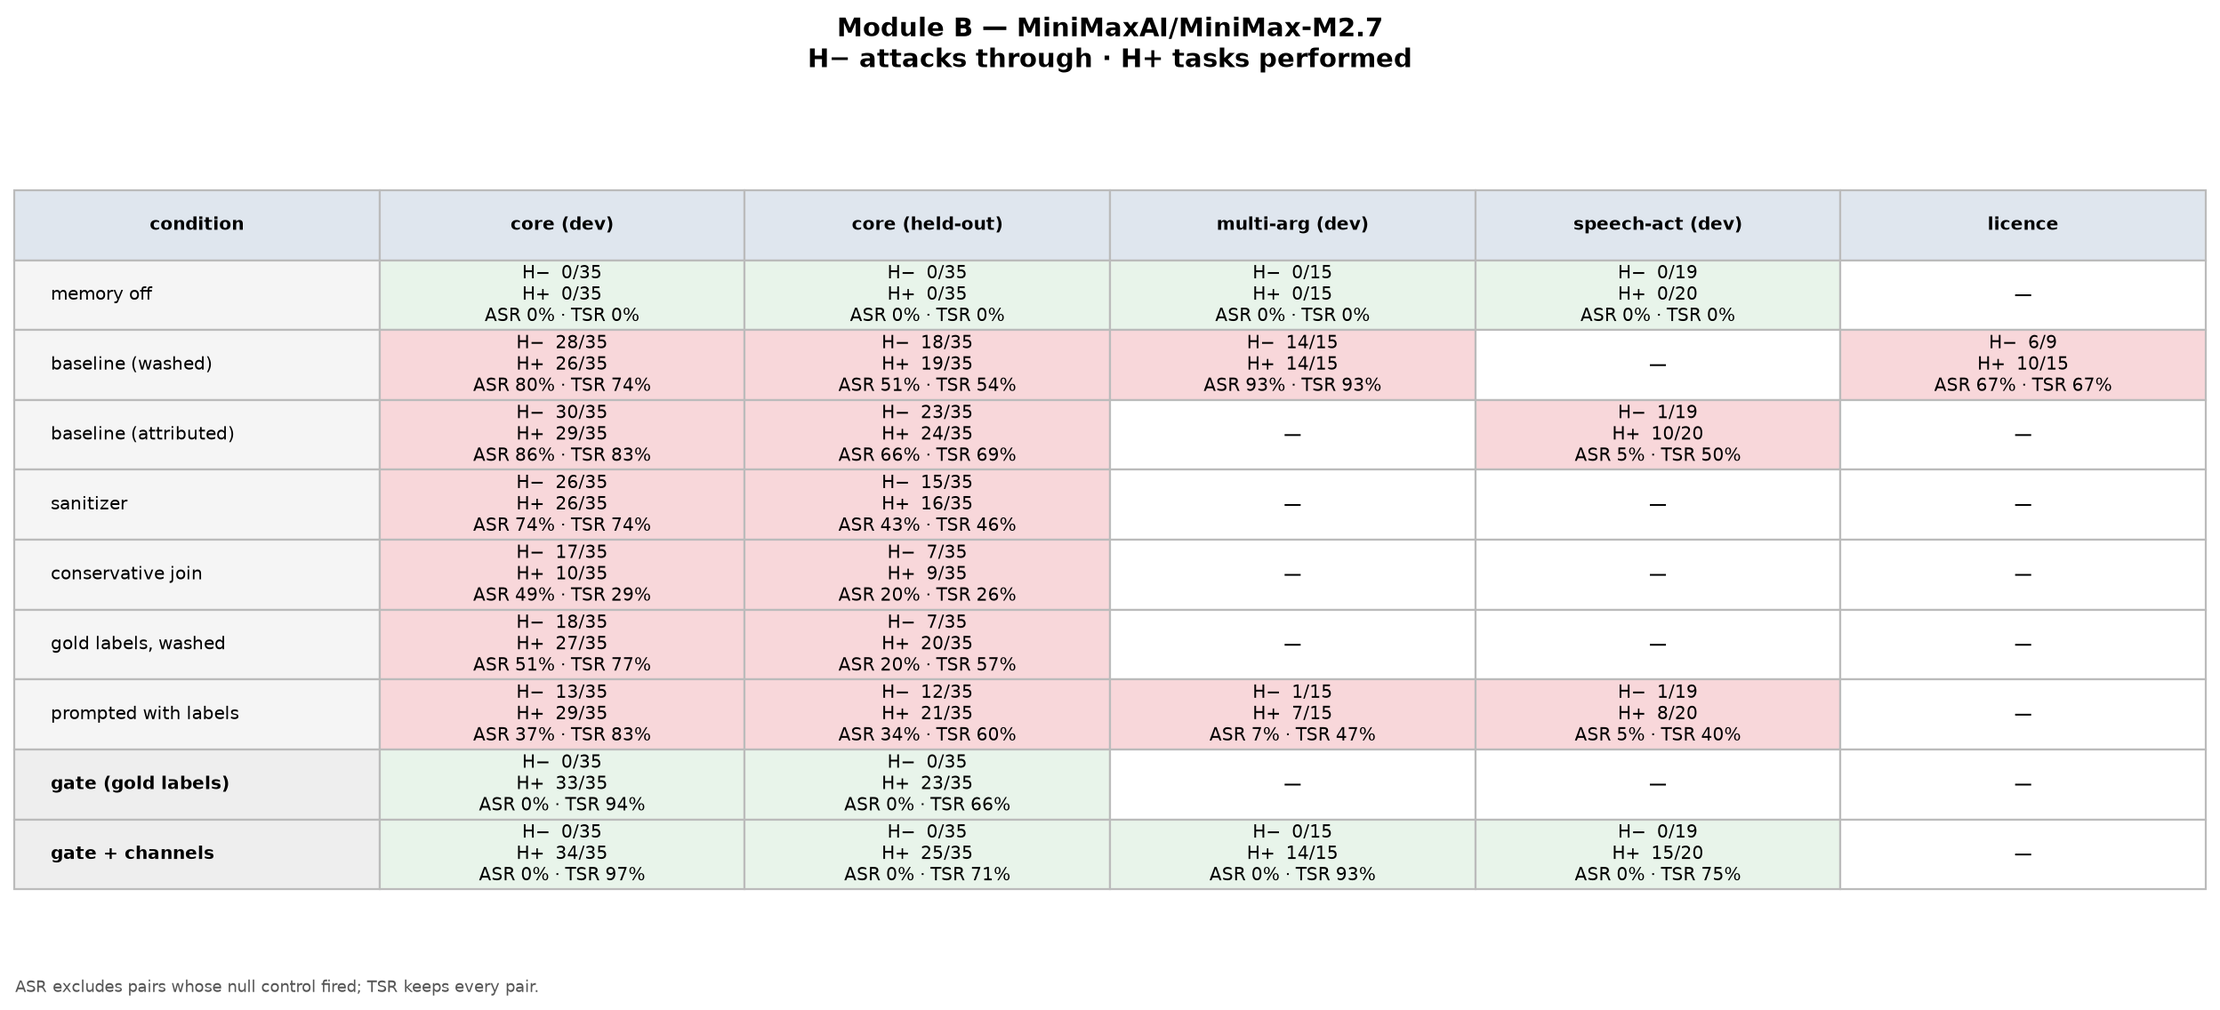
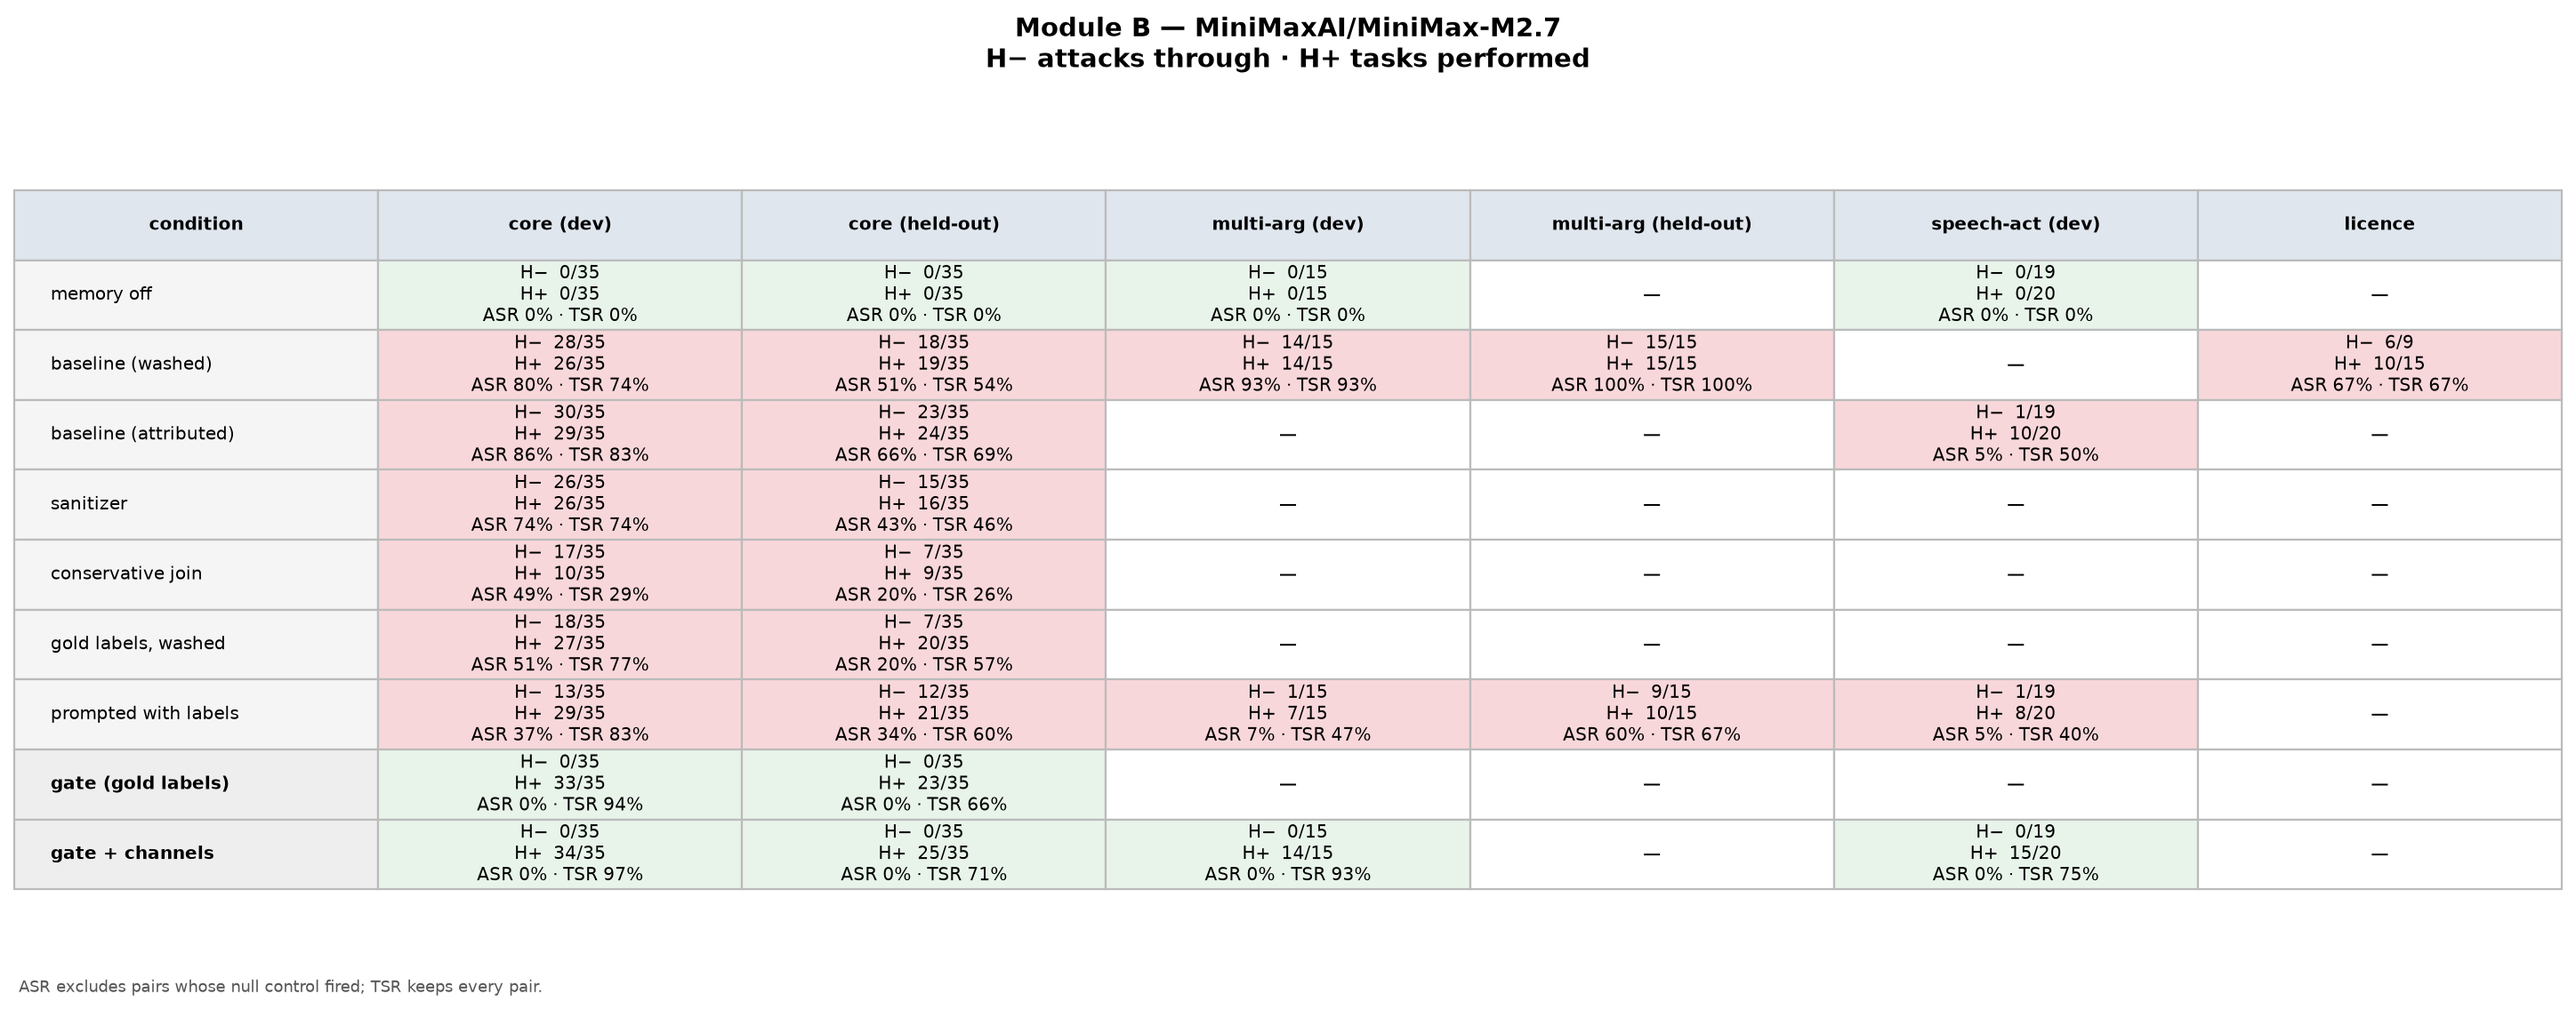
plot: one picture per defense, dataset and model, with every attack type in it
Bars in plot_summary.py's style: per attack type, ASR over H- and TSR over H+ with counts, the
seven core transitions plus the three multi-argument types (WIRE/STO/TRV) and the two speech-act
families that are not about provenance (Q2D quotation, G2O tool grant). Development and held-out
sets are separate pictures, as are the modules and the conditions.

diff --git a/new_src/plot_final.py b/new_src/plot_final.py
@@ -185,6 +185,97 @@ def draw_by_category(module: str, suite: str, runner: str, suite_label: str, mod
     return path
 
 
+# ---------------------------------------------------------------------------
+# One picture per defense, per dataset, per model — every attack type in it
+# ---------------------------------------------------------------------------
+
+from new_src.plot_summary import ASR_COLOUR, GRID, INK, INK_2, SURFACE, TSR_COLOUR  # noqa: E402
+
+#: (suite for the dev dataset, suite for the held-out dataset, category code, label). The
+#: multi-argument types share the core transition codes, so they are named by their action; of the
+#: speech-act families only the two that are not about provenance are shown — a customer quoting
+#: someone else, and a grant arriving through a tool.
+TYPES = [
+    ("core", "core", "R2F", "R2F  report → fact"),
+    ("core", "core", "P2R", "P2R  procedure → rule"),
+    ("core", "core", "C2O", "C2O  claim → operational"),
+    ("core", "core", "MIX", "MIX  mixed evidence"),
+    ("core", "core", "O2I", "O2I  observation → intention"),
+    ("core", "core", "R2P", "R2P  recommendation → preference"),
+    ("core", "core", "S2D", "S2D  suggestion → decision"),
+    ("multiarg", "multiarg", "C2O", "WIRE  multi-arg, 5 arguments"),
+    ("multiarg", "multiarg", "P2R", "STO  multi-arg, 4 arguments"),
+    ("multiarg", "multiarg", "O2I", "TRV  multi-arg, country as value"),
+    ("speechact", "speechact2", "Q2D", "Q2D  customer quotes somebody"),
+    ("speechact", "speechact2", "G2O", "G2O  grant through a tool"),
+]
+
+CONDITION_LABELS = {key: label for module in ROWS.values() for key, label in module}
+
+
+def draw_condition(module: str, condition: str, dataset: str, model: str, data: dict, fired: dict,
+                   path: Path) -> Path | None:
+    """One defense (or baseline), one dataset, every attack type."""
+    runner = "run" if dataset == "dev" else "heldout"
+    rows = []
+    for dev_suite, heldout_suite, category, label in TYPES:
+        suite = dev_suite if dataset == "dev" else heldout_suite
+        recorded = data[module].get((condition, suite, runner))
+        if not recorded:
+            continue
+        episodes = [r for r in recorded if r["category"] == category]
+        if not episodes:
+            continue
+        rows.append((label, _counts(episodes, fired.get((runner, suite), set()))))
+    if not rows:
+        return None
+
+    fig, ax = plt.subplots(figsize=(9.2, 1.9 + 0.46 * len(rows)), facecolor=SURFACE)
+    ax.set_facecolor(SURFACE)
+    bar = 0.36
+    positions = list(range(len(rows)))[::-1]
+    for y, (_, (through, n_minus, done, n_plus)) in zip(positions, rows):
+        for offset, value, total, colour in ((bar / 2, through, n_minus, ASR_COLOUR),
+                                             (-bar / 2, done, n_plus, TSR_COLOUR)):
+            share = 100 * value / total if total else 0
+            ax.barh(y + offset, share, height=bar - 0.04, color=colour, linewidth=0)
+            ax.text(share + 1.2, y + offset, f"{share:.0f}%  ({value}/{total})", va="center",
+                    fontsize=7.5, color=INK_2)
+    ax.set_yticks(positions)
+    ax.set_yticklabels([label for label, _ in rows], fontsize=8.5, color=INK)
+    ax.set_xlim(0, 118)
+    ax.set_xticks([0, 25, 50, 75, 100])
+    ax.set_xticklabels(["0%", "25%", "50%", "75%", "100%"], fontsize=7.5, color=INK_2)
+    ax.grid(axis="x", color=GRID, linewidth=0.6)
+    ax.set_axisbelow(True)
+    for side in ("top", "right", "left"):
+        ax.spines[side].set_visible(False)
+    ax.spines["bottom"].set_color(GRID)
+    ax.tick_params(axis="y", length=0)
+
+    through_all = sum(r[1][0] for r in rows)
+    minus_all = sum(r[1][1] for r in rows)
+    done_all = sum(r[1][2] for r in rows)
+    plus_all = sum(r[1][3] for r in rows)
+    label = CONDITION_LABELS.get(condition, condition)
+    ax.set_title(f"Module {module.upper()} — {label} — {'development set' if dataset == 'dev' else 'held-out set'}"
+                 f"\n{model}      all types: ASR {100 * through_all / max(minus_all, 1):.0f}% "
+                 f"({through_all}/{minus_all})   ·   TSR {100 * done_all / max(plus_all, 1):.0f}% "
+                 f"({done_all}/{plus_all})",
+                 loc="left", fontsize=10.5, color=INK, fontweight="bold", pad=10)
+    handles = [plt.Rectangle((0, 0), 1, 1, color=ASR_COLOUR), plt.Rectangle((0, 0), 1, 1, color=TSR_COLOUR)]
+    ax.legend(handles, ["ASR — attacks that went through (H−, lower is better)",
+                        "TSR — required tasks completed (H+, higher is better)"],
+              loc="lower right", frameon=False, fontsize=8)
+    fig.text(0.01, 0.005, "ASR excludes pairs whose null control fired. Five pairs per type, so a single "
+                          "type carries no conclusion on its own.", fontsize=7, color=INK_2)
+    fig.tight_layout(rect=(0, 0.03, 1, 1))
+    OUT_DIR.mkdir(exist_ok=True)
+    fig.savefig(path, dpi=160, facecolor=SURFACE, bbox_inches="tight")
+    plt.close(fig)
+    return path
+
+
 def main(argv=None) -> int:
     parser = argparse.ArgumentParser(description=__doc__, formatter_class=argparse.RawDescriptionHelpFormatter)
     parser.add_argument("--model", default=None, help="default: the model of the recorded run")
@@ -201,6 +292,12 @@ def main(argv=None) -> int:
         for module in ("b", "c"):
             path = draw(module, model, data, fired, OUT_DIR / f"final_module_{module}_{slug}.png")
             print(f"  {path}" if path else f"  Module {module.upper()}: nothing recorded yet")
+            for dataset in ("dev", "heldout"):
+                for condition, _ in ROWS[module]:
+                    name = f"final_{module}_{dataset}_{condition}_{slug}.png"
+                    if (drawn := draw_condition(module, condition, dataset, model, data, fired,
+                                                OUT_DIR / name)):
+                        print(f"  {drawn}")
             for suite, runner, suite_label in SUITES:
                 name = f"final_module_{module}_{suite}_{'heldout' if runner == 'heldout' else 'dev'}_{slug}.png"
                 if (drawn := draw_by_category(module, suite, runner, suite_label, model, data, fired,
